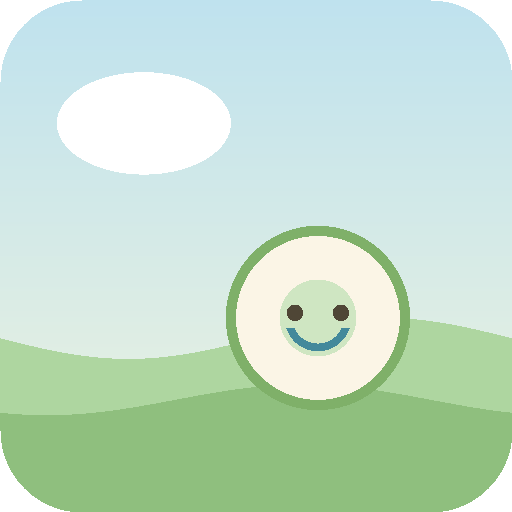
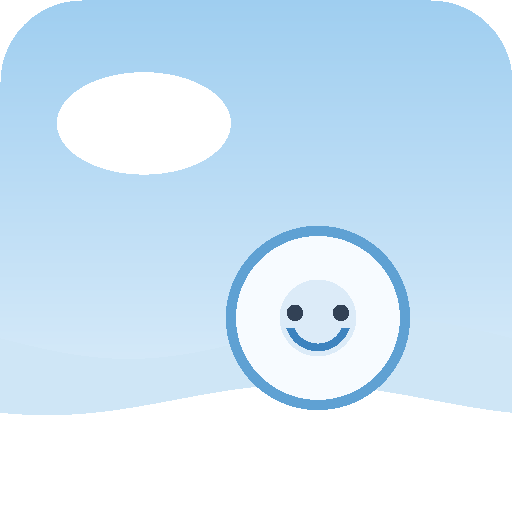
style: 主題改為藍白色系（天空之城風）
- 背景改為晴空藍漸層→雲白；遠山改為藍白雲海層次
- 卡片改為白色、文字改冷調墨藍
- 主色盤改為乾淨天空藍；吉祥物、favicon、PWA 圖示同步藍白化
- 圖表格線/提示框與 theme-color / manifest 配色更新
- 功能與測試不變（52 項通過）

diff --git a/tailwind.config.js b/tailwind.config.js
@@ -4,35 +4,35 @@ export default {
   theme: {
     extend: {
       colors: {
-        // 吉卜力天空藍 (Ghibli sky / primary)
+        // 天空之城藍 (clean Ghibli sky-blue / primary)
         brand: {
-          50: '#eef6f8',
-          100: '#d8ebef',
-          200: '#b6dae1',
-          300: '#8bc3ce',
-          400: '#5ca5b5',
-          500: '#43899b',
-          600: '#366f80',
-          700: '#2e5a68',
-          800: '#2a4a55',
-          900: '#263e48',
+          50: '#f1f7fc',
+          100: '#dcebf8',
+          200: '#bedaef',
+          300: '#92c1e3',
+          400: '#5fa1d3',
+          500: '#3d83bf',
+          600: '#2f69a0',
+          700: '#295681',
+          800: '#26486a',
+          900: '#233d59',
         },
-        // 紙感奶油底色 (warm paper)
-        cream: '#fbf5e6',
-        // 自然色點綴 (kept the `candy` token name to minimise churn)
+        // 雲白紙感底色 (soft cloud white)
+        cream: '#f7fbff',
+        // 點綴色 (kept the `candy` token name to minimise churn)
         candy: {
           pink: '#e7a3a8',
-          lavender: '#b3a4d4',
-          mint: '#9fd6b6',
+          lavender: '#a9b8e0',
+          mint: '#9fd6cf',
           peach: '#f0b27a',
           sky: '#a9d6e5',
           lemon: '#f2d281',
         },
-        // 暖棕墨色文字
+        // 冷調墨藍文字
         ink: {
-          DEFAULT: '#4f4636',
-          soft: '#7a715f',
-          faint: '#a89f8c',
+          DEFAULT: '#324155',
+          soft: '#5f7088',
+          faint: '#93a3b8',
         },
         meadow: '#7fb069',
         sunset: '#ef9d6b',

diff --git a/src/index.css b/src/index.css
@@ -14,15 +14,15 @@ body,
 
 body {
   margin: 0;
-  color: #4f4636;
-  /* 吉卜力天空：上方晴空藍漸層到下方奶油色 (a Ghibli sky fading to warm cream) */
-  background-color: #fbf5e6;
+  color: #324155;
+  /* 天空之城：晴空藍漸層到雲白 (a clear sky fading to cloud white) */
+  background-color: #f7fbff;
   background-image: linear-gradient(
     180deg,
-    #cfe8f0 0%,
-    #e4f0ec 30%,
-    #f3f0e2 58%,
-    #fbf5e6 100%
+    #bfe0f5 0%,
+    #d8edfb 26%,
+    #ecf6fd 52%,
+    #f7fbff 100%
   );
   background-attachment: fixed;
   -webkit-font-smoothing: antialiased;
@@ -71,9 +71,9 @@ body {
   height: 10px;
 }
 ::-webkit-scrollbar-thumb {
-  background: #cbe0d6;
+  background: #bedaef;
   border-radius: 999px;
 }
 ::-webkit-scrollbar-thumb:hover {
-  background: #a9d6e5;
+  background: #92c1e3;
 }

diff --git a/src/components/Scenery.tsx b/src/components/Scenery.tsx
@@ -5,10 +5,10 @@
 export default function Scenery() {
   return (
     <div className="pointer-events-none fixed inset-0 -z-10 overflow-hidden" aria-hidden="true">
-      {/* sun glow */}
+      {/* soft sun haze */}
       <div
-        className="absolute -right-16 top-10 h-56 w-56 rounded-full opacity-60 blur-2xl"
-        style={{ background: 'radial-gradient(circle, #fdeccb 0%, rgba(253,236,203,0) 70%)' }}
+        className="absolute -right-16 top-10 h-56 w-56 rounded-full opacity-70 blur-2xl"
+        style={{ background: 'radial-gradient(circle, #ffffff 0%, rgba(255,255,255,0) 70%)' }}
       />
 
       {/* clouds */}
@@ -28,7 +28,7 @@ export default function Scenery() {
         </g>
       </svg>
 
-      {/* rolling hills at the bottom */}
+      {/* layered distant hills / cloud sea in soft blues */}
       <svg
         className="absolute bottom-0 left-0 w-full"
         viewBox="0 0 1440 320"
@@ -37,18 +37,18 @@ export default function Scenery() {
       >
         <path
           d="M0 220 C 240 160 360 260 600 230 C 840 200 960 280 1200 240 C 1320 220 1400 250 1440 240 L1440 320 L0 320 Z"
-          fill="#cfe6c2"
+          fill="#cfe6f6"
           opacity="0.7"
         />
         <path
           d="M0 270 C 260 220 420 300 720 270 C 1020 240 1160 300 1440 280 L1440 320 L0 320 Z"
-          fill="#aed6a0"
+          fill="#aed3ef"
           opacity="0.75"
         />
         <path
           d="M0 300 C 300 270 540 320 900 300 C 1140 288 1300 312 1440 305 L1440 320 L0 320 Z"
-          fill="#8fbf7e"
-          opacity="0.8"
+          fill="#ffffff"
+          opacity="0.85"
         />
       </svg>
     </div>

diff --git a/src/components/Mascot.tsx b/src/components/Mascot.tsx
@@ -5,14 +5,14 @@ export default function Mascot({ size = 64 }: { size?: number }) {
       <defs>
         <linearGradient id="mascotBody" x1="0" y1="0" x2="0" y2="1">
           <stop offset="0" stopColor="#ffffff" />
-          <stop offset="1" stopColor="#eef6ec" />
+          <stop offset="1" stopColor="#eaf4fc" />
         </linearGradient>
       </defs>
       {/* wobbly cell membrane */}
       <path
         d="M32 6c9 0 16 4 19 11s2 16-3 23-10 11-16 11-15-3-20-11S7 25 12 18 23 6 32 6Z"
         fill="url(#mascotBody)"
-        stroke="#7fb069"
+        stroke="#5fa1d3"
         strokeWidth="2.5"
       />
       {/* organelles */}
@@ -21,13 +21,13 @@ export default function Mascot({ size = 64 }: { size?: number }) {
       <circle cx="46" cy="38" r="2.2" fill="#ffd97a" />
       <circle cx="20" cy="40" r="1.8" fill="#9cd4fb" />
       {/* nucleus */}
-      <circle cx="32" cy="34" r="9" fill="#cfe6c2" />
+      <circle cx="32" cy="34" r="9" fill="#dcebf8" />
       {/* face */}
       <circle cx="28.5" cy="33" r="1.8" fill="#5b4660" />
       <circle cx="35.5" cy="33" r="1.8" fill="#5b4660" />
-      <path d="M28 38c2.2 2.6 6 2.6 8 0" stroke="#43899b" strokeWidth="2" fill="none" strokeLinecap="round" />
-      <circle cx="25.5" cy="36.5" r="2" fill="#ef9d6b" opacity="0.55" />
-      <circle cx="38.5" cy="36.5" r="2" fill="#ef9d6b" opacity="0.55" />
+      <path d="M28 38c2.2 2.6 6 2.6 8 0" stroke="#3d83bf" strokeWidth="2" fill="none" strokeLinecap="round" />
+      <circle cx="25.5" cy="36.5" r="2" fill="#9fc8ea" opacity="0.6" />
+      <circle cx="38.5" cy="36.5" r="2" fill="#9fc8ea" opacity="0.6" />
     </svg>
   );
 }

diff --git a/src/lib/chartTheme.ts b/src/lib/chartTheme.ts
@@ -1,13 +1,13 @@
 /** Shared light/pastel styling for Recharts across the app. */
 export const CHART = {
-  grid: '#e3e0cf',
-  axis: '#b8a9bf',
+  grid: '#dbe7f2',
+  axis: '#93a3b8',
   axisFont: 11,
   tooltip: {
     background: '#ffffff',
-    border: '1px solid #d8ebef',
+    border: '1px solid #cfe2f2',
     borderRadius: 16,
-    color: '#4f4636',
+    color: '#324155',
     boxShadow: '0 10px 30px -12px rgba(79,70,54,0.3)',
   },
 } as const;

diff --git a/src/pages/Exam.tsx b/src/pages/Exam.tsx
@@ -502,11 +502,11 @@ export default function Exam() {
         <div className="mt-5 h-44 w-full">
           <ResponsiveContainer width="100%" height="100%">
             <BarChart data={dist}>
-              <CartesianGrid strokeDasharray="3 3" stroke="#e3e0cf" />
+              <CartesianGrid strokeDasharray="3 3" stroke="#dbe7f2" />
               <XAxis dataKey="bin" stroke="#94a3b8" fontSize={10} interval={1} />
               <YAxis stroke="#94a3b8" fontSize={10} allowDecimals={false} />
               <Tooltip
-                contentStyle={{ background: '#fbf5e6', border: '1px solid #d8ebef', borderRadius: 16, color: '#4f4636' }}
+                contentStyle={{ background: '#ffffff', border: '1px solid #cfe2f2', borderRadius: 16, color: '#324155' }}
                 labelFormatter={(l) => `分數 ${l}–${Number(l) + 5}%`}
               />
               <ReferenceLine

diff --git a/vite.config.ts b/vite.config.ts
@@ -14,8 +14,8 @@ export default defineConfig({
         name: '生物奧林匹亞模擬複習',
         short_name: 'IBO Prep',
         description: '生物奧林匹亞初賽／複賽多方向模擬複習與弱點分析工具',
-        theme_color: '#cfe8f0',
-        background_color: '#fbf5e6',
+        theme_color: '#bfe0f5',
+        background_color: '#f7fbff',
         display: 'standalone',
         orientation: 'portrait',
         start_url: '/',

diff --git a/index.html b/index.html
@@ -4,7 +4,7 @@
     <meta charset="UTF-8" />
     <link rel="icon" type="image/svg+xml" href="/favicon.svg" />
     <meta name="viewport" content="width=device-width, initial-scale=1.0, viewport-fit=cover" />
-    <meta name="theme-color" content="#cfe8f0" />
+    <meta name="theme-color" content="#bfe0f5" />
     <meta name="description" content="生物奧林匹亞初賽／複賽多方向模擬複習與弱點分析工具" />
     <link rel="apple-touch-icon" href="/pwa-192x192.png" />
     <meta name="apple-mobile-web-app-capable" content="yes" />